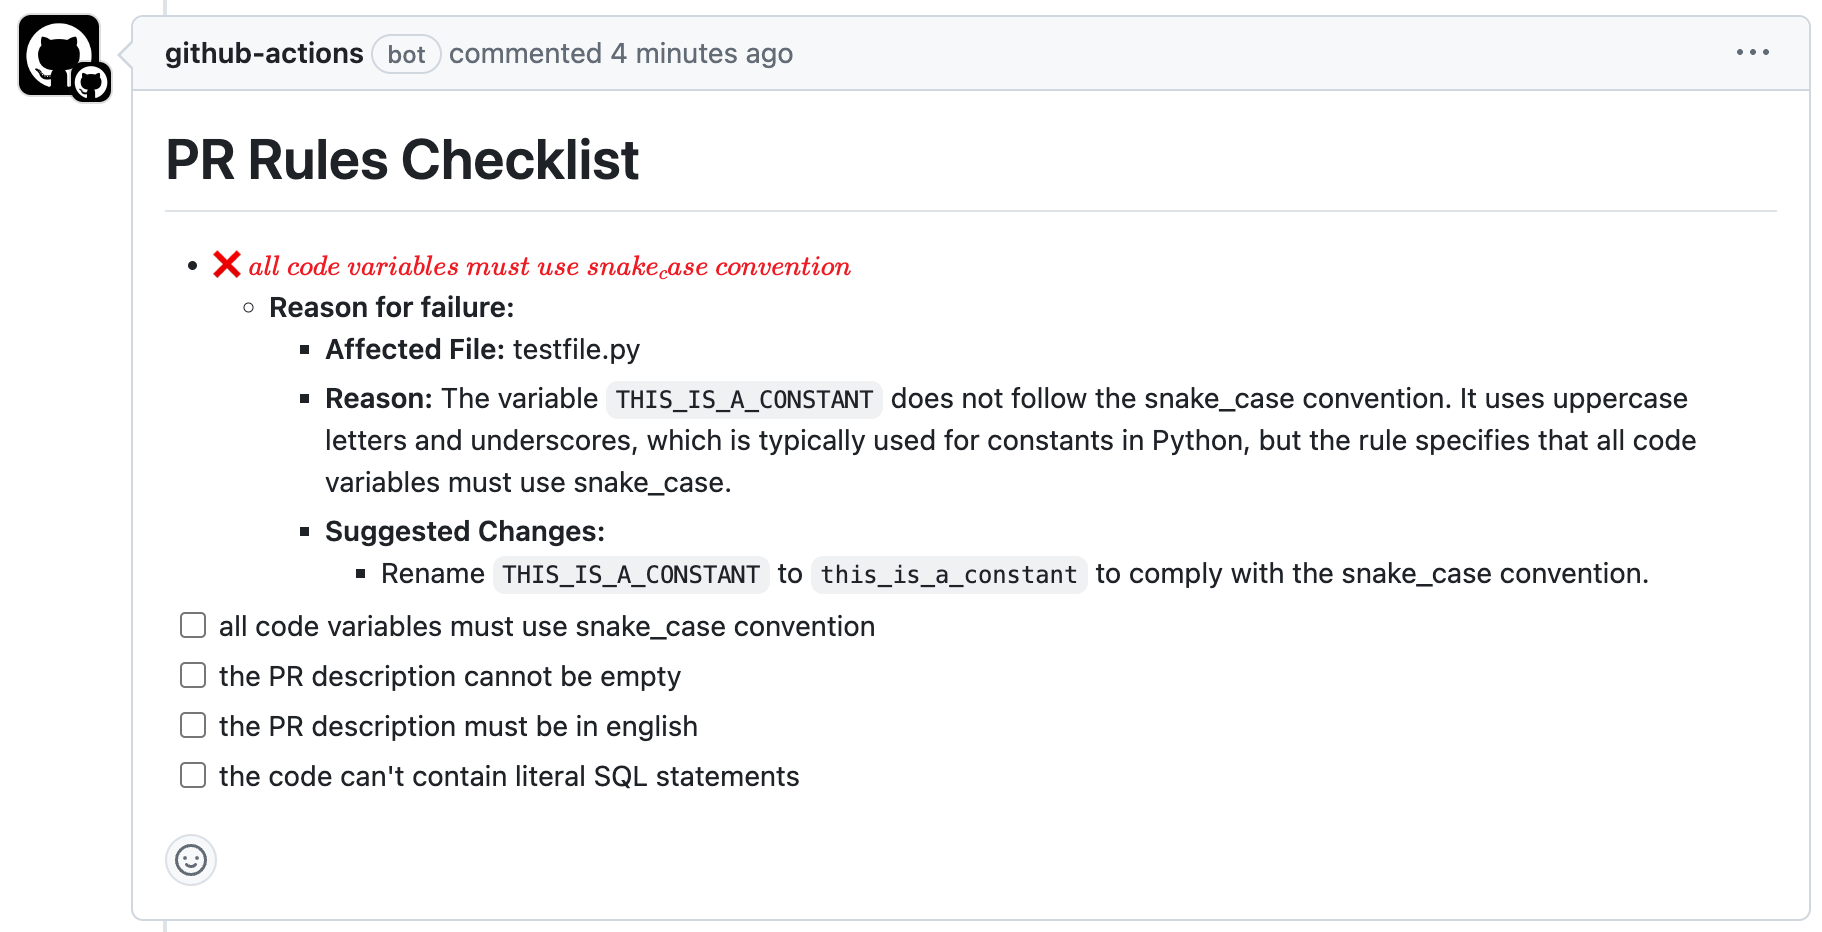
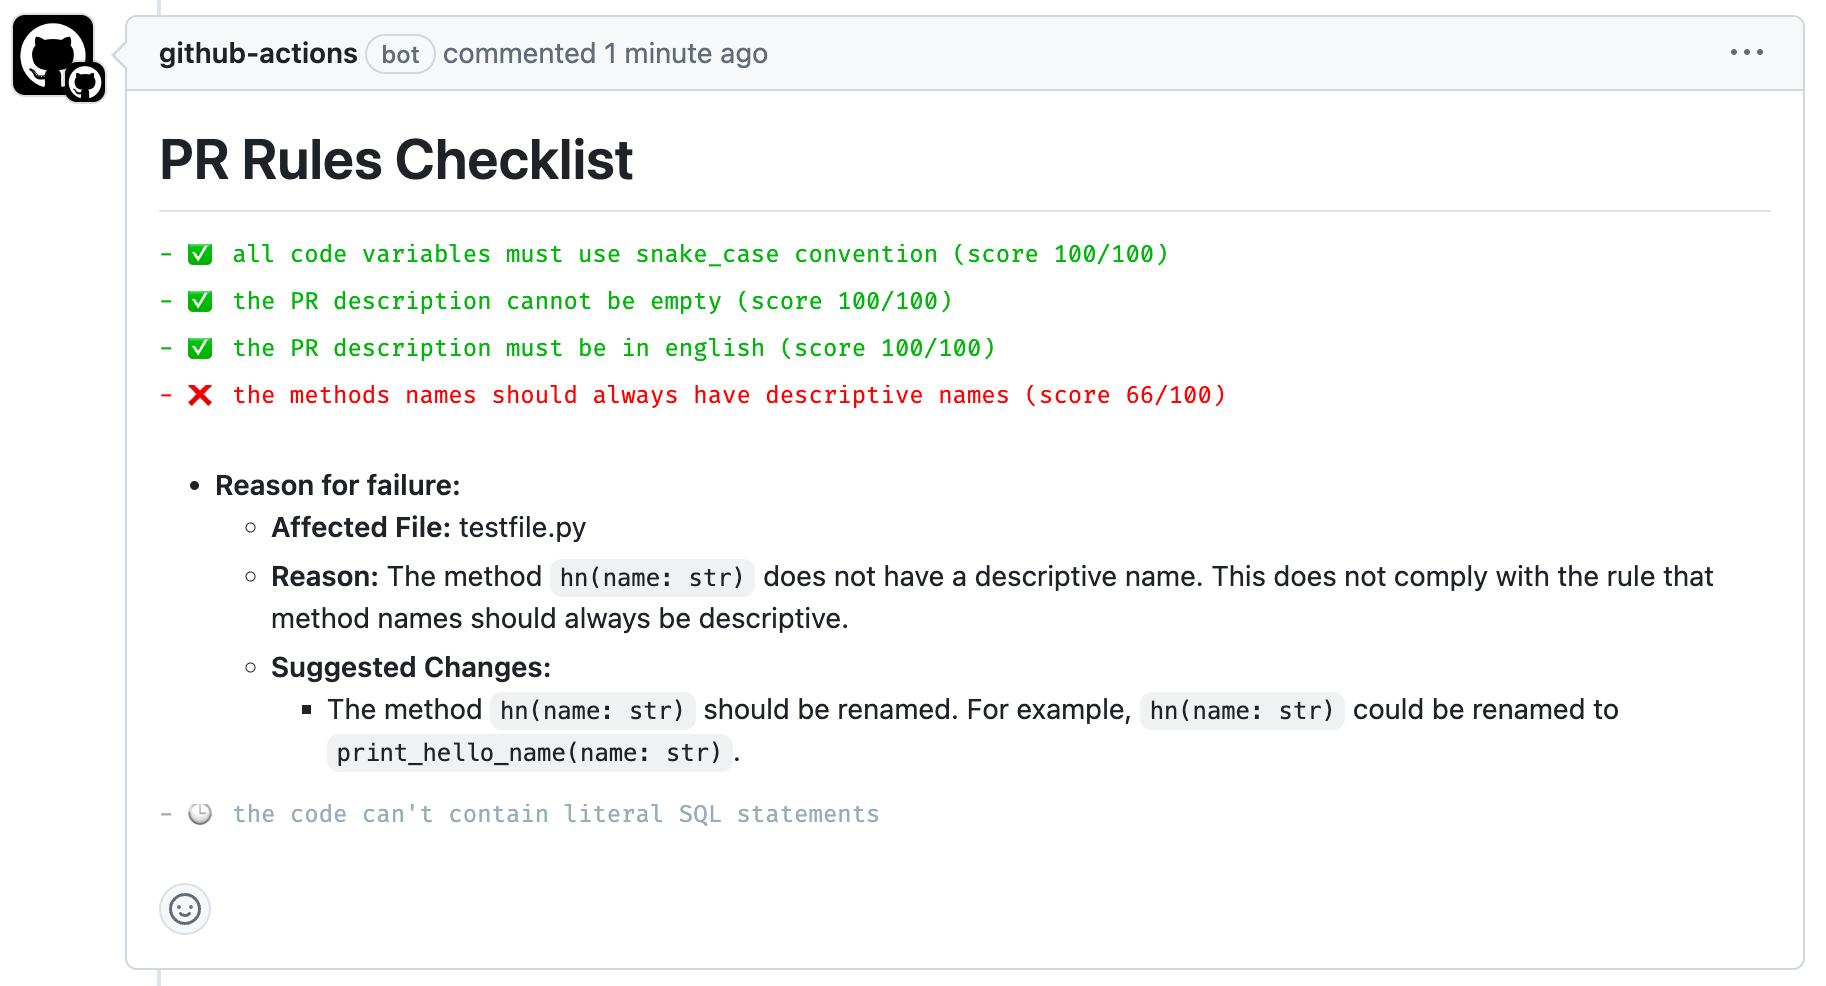
- updated readme

Changed region(s): [[0.0922, 0.2489, 0.9528, 0.8401], [0.0615, 0.0311, 1.0, 1.0], [0.0, 0.0, 0.4303, 0.2178]]

diff --git a/README.md b/README.md
@@ -1,5 +1,5 @@
-# pr-rules
-Github Action for checking a given PR against a markdown file with checklist rules written in natural language (they can be written on any language).
+# PR-rules
+Github Action for checking a given PR against a markdown file with checklist rules written in natural language. It uses a team of experts to assest and validate your repo rules.
 
 # Requirements
 - OpenAI API Key
@@ -9,10 +9,11 @@ On the root of your repo, create a file called pr-rules.md with the following co
 
 ```md
 [] all code variables must use snake_case convention
+[] the PR description cannot be empty
 [] the PR description must be in english
-[] the PR description must specify which tests where performed
-[] no code diff should be more than 100 lines 
+[] the methods names should always have descriptive names 
 [] the code can't contain literal SQL statements
+[] no code diff should be more than 100 lines 
 ```
 
 then on your repo create a github workflow template like the following:
